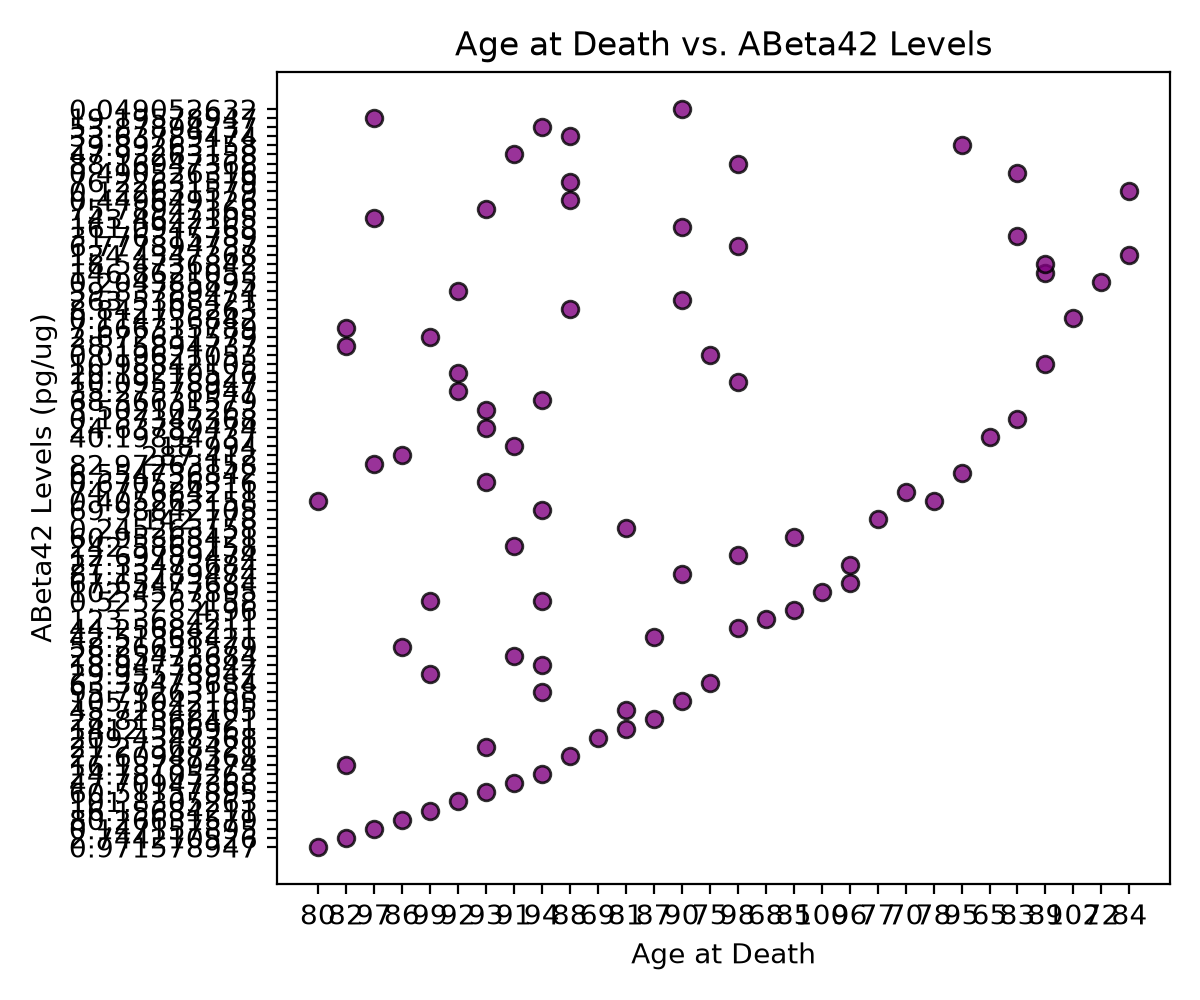
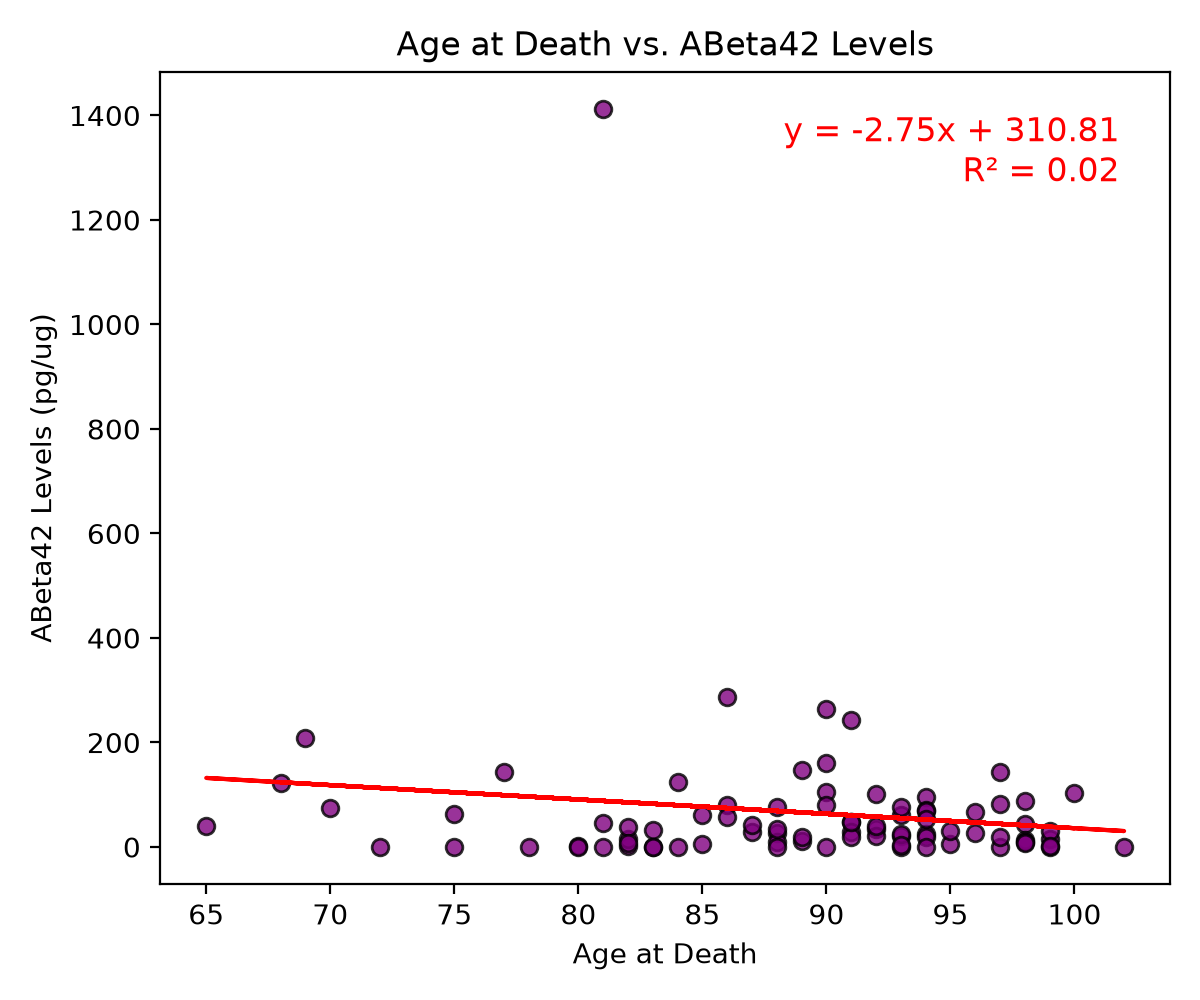
classwork

diff --git a/mainp_jade.py b/mainp_jade.py
@@ -5,10 +5,15 @@ import statistics #used for mean and stdev
 import matplotlib.pyplot as plt #used to create the bar graph and scatter plot
 from patient_jade import Patient 
 import os 
+from scipy import stats 
+from sklearn.linear_model import LinearRegression
+import numpy as np 
+
 #os.path builds the script's own location. instead of a normal filename string. this code still finds the CSV
 #i used claude to figure out why my code kept giving me a FileNotFoundError. Python was not looking for the script's location.
 CVS_PATH= os.path.join(os.path.dirname(__file__), 'Metadata and Protein Data for Module 1 (1).csv')
 patients = Patient.pts_from_csv(CVS_PATH)
+print(set(p.cognitive_status for p in patients))
 #sorted() takes the list of patients and uses the key function to sort by something specific.
 #age at death is a simple numeric field
 sorted_by_age = sorted(patients, key=lambda p: p.age_at_death)
@@ -67,21 +72,102 @@ plt.close(fig)
 print("Saved bar_graph_abeta42_by_sex.png, a bar graph comparing ABeta42 levels between male and female patients with dementia.\n")
 
 
-ages = [p.age_at_death for p in patients if p.age_at_death is not None and p.abeta42 is not None]
-abeta42_levels = [p.abeta42 for p in patients if p.age_at_death is not None and p.abeta42 is not None]
+# ages = [float(p.age_at_death) for p in patients if p.age_at_death not in (None, '') and p.abeta42 not in (None, '')]
+# abeta42_levels = [float(p.abeta42) for p in patients if p.age_at_death not in (None, '') and p.abeta42 not in (None, '')]
+ages = [float(p.age_at_death) for p in patients if p.age_at_death not in (None, '') and p.abeta42 not in (None, '')]
+abeta42_levels = [float(p.abeta42) for p in patients if p.age_at_death not in (None, '') and p.abeta42 not in (None, '')]
+
+# reshape into the (n_samples, 1) format sklearn expects for X
+X = np.array(ages).reshape(-1, 1)   # independent variable
+y = np.array(abeta42_levels)         # dependent variable
+
+# fit the linear regression
+model = LinearRegression()
+model.fit(X, y)
+
+slope = model.coef_[0]
+intercept = model.intercept_
+r2 = model.score(X, y)
 
 fig, ax = plt.subplots(figsize=(6, 5))
 
 ax.scatter(ages, abeta42_levels, alpha=0.8, color='purple', edgecolor='black')
-ax.set_xlabel('Age at Death') # x-axis
-ax.set_ylabel('ABeta42 Levels (pg/ug)') # y-axis
+ax.plot(X, model.predict(X), color='red')  # regression line
+
+# annotate the equation and R^2 in the corner
+equation = f"y = {slope:.2f}x + {intercept:.2f}\nR² = {r2:.2f}"
+ax.text(0.95, 0.95, equation, transform=ax.transAxes, ha='right', va='top',
+         color='red', fontsize=12)
+
+ax.set_xlabel('Age at Death')
+ax.set_ylabel('ABeta42 Levels (pg/ug)')
 ax.set_title('Age at Death vs. ABeta42 Levels')
 plt.tight_layout()
-
-# Saves the figure as a .png file.
-plt.savefig('scatter_plot_age_vs_abeta42.png', dpi = 200)
+plt.savefig('scatter_plot_age_vs_abeta42.png', dpi=200)
 plt.close(fig)
-print("Saved scatter_plot_age_vs_abeta42.png, a scatter plot of Age at Death vs. ABeta42 levels for all patients.\n")
+print("Saved scatter_plot_age_vs_abeta42.png, a scatter plot of Age at Death vs. ABeta42 levels with regression line.\n")
+print("Working directory:", os.getcwd())
+print("Files here:", os.listdir("."))
+
+#AI Usage: asked Claude how to run a one-way ANOVA across 4 groups and add it to the bar graph.
+#scipy.stats.f_oneway compares means across groups; a small p-value means at least one
+#group's mean differs significantly from the others.
+
+#split into healthy vs. dementia groups, then by sex
+#NOTE: replace 'No Dementia' below with whatever string your CSV actually uses
+healthy_patients = Patient.filter_patients(patients, cognitive_status='<exact string from the printout>')
+
+healthy_patients = Patient.filter_patients(patients, cognitive_status='No dementia')
+dementia_patients = Patient.filter_patients(patients, cognitive_status='Dementia')
+
+def get_abeta42(patient_list, sex):
+    return [float(p.abeta42) for p in patient_list
+            if p.sex == sex and p.abeta42 not in (None, '')]
+
+health_fem_vals = get_abeta42(healthy_patients, 'Female')
+health_male_vals = get_abeta42(healthy_patients, 'Male')
+diseased_fem_vals = get_abeta42(dementia_patients, 'Female')
+diseased_male_vals = get_abeta42(dementia_patients, 'Male')
+
+x_health_fem_bar = statistics.mean(health_fem_vals)
+x_health_male_bar = statistics.mean(health_male_vals)
+x_diseased_fem_bar = statistics.mean(diseased_fem_vals)
+x_diseased_male_bar = statistics.mean(diseased_male_vals)
+
+ABeta_health_fem_stdev = statistics.stdev(health_fem_vals)
+ABeta_health_male_stdev = statistics.stdev(health_male_vals)
+ABeta_diseased_fem_stdev = statistics.stdev(diseased_fem_vals)
+ABeta_diseased_male_stdev = statistics.stdev(diseased_male_vals)
+
+print(f"x_bar = {x_health_fem_bar}, ABeta_stdev {ABeta_health_fem_stdev}")
+print(f"x_bar = {x_health_male_bar}, ABeta_stdev {ABeta_health_male_stdev}")
+print(f"x_bar = {x_diseased_fem_bar}, ABeta_stdev {ABeta_diseased_fem_stdev}")
+print(f"x_bar = {x_diseased_male_bar}, ABeta_stdev {ABeta_diseased_male_stdev}")
+
+sex_cols = ['Healthy Female', 'Healthy Male', 'Diseased Female', 'Diseased Male']
+mean_sex_ABeta42 = [x_health_fem_bar, x_health_male_bar, x_diseased_fem_bar, x_diseased_male_bar]
+stdev_sex_ABeta42 = [ABeta_health_fem_stdev, ABeta_health_male_stdev,
+                      ABeta_diseased_fem_stdev, ABeta_diseased_male_stdev]
+colors = ["red", "blue", "pink", "skyblue"]
+
+# run one-way ANOVA across all four groups at once
+f_stat, p_value = stats.f_oneway(health_fem_vals, health_male_vals,
+                                  diseased_fem_vals, diseased_male_vals)
+print("F-statistic:", f_stat)
+print("p-value:", p_value)
+
+fig, ax = plt.subplots(figsize=(6, 5))
+ax.bar(sex_cols, mean_sex_ABeta42, yerr=stdev_sex_ABeta42, capsize=10,
+       color=colors, edgecolor='black')
+ax.set_title("ABeta42 Levels")
+ax.set_xlabel("Sex and Health Status")
+ax.set_ylabel("ABeta42 (pg/ug)")
+ax.text(1.5, max(mean_sex_ABeta42) + max(stdev_sex_ABeta42) + 20,
+        f"One-Way ANOVA: p = {p_value:.3f}", ha='center', va='top', fontsize=12)
+plt.tight_layout()
+plt.savefig('bar_graph_abeta42_four_groups.png', dpi=200)
+plt.close(fig)
+print("Saved bar_graph_abeta42_four_groups.png\n")
 
 print("Working directory:", os.getcwd())
 print("Files here:", os.listdir("."))
